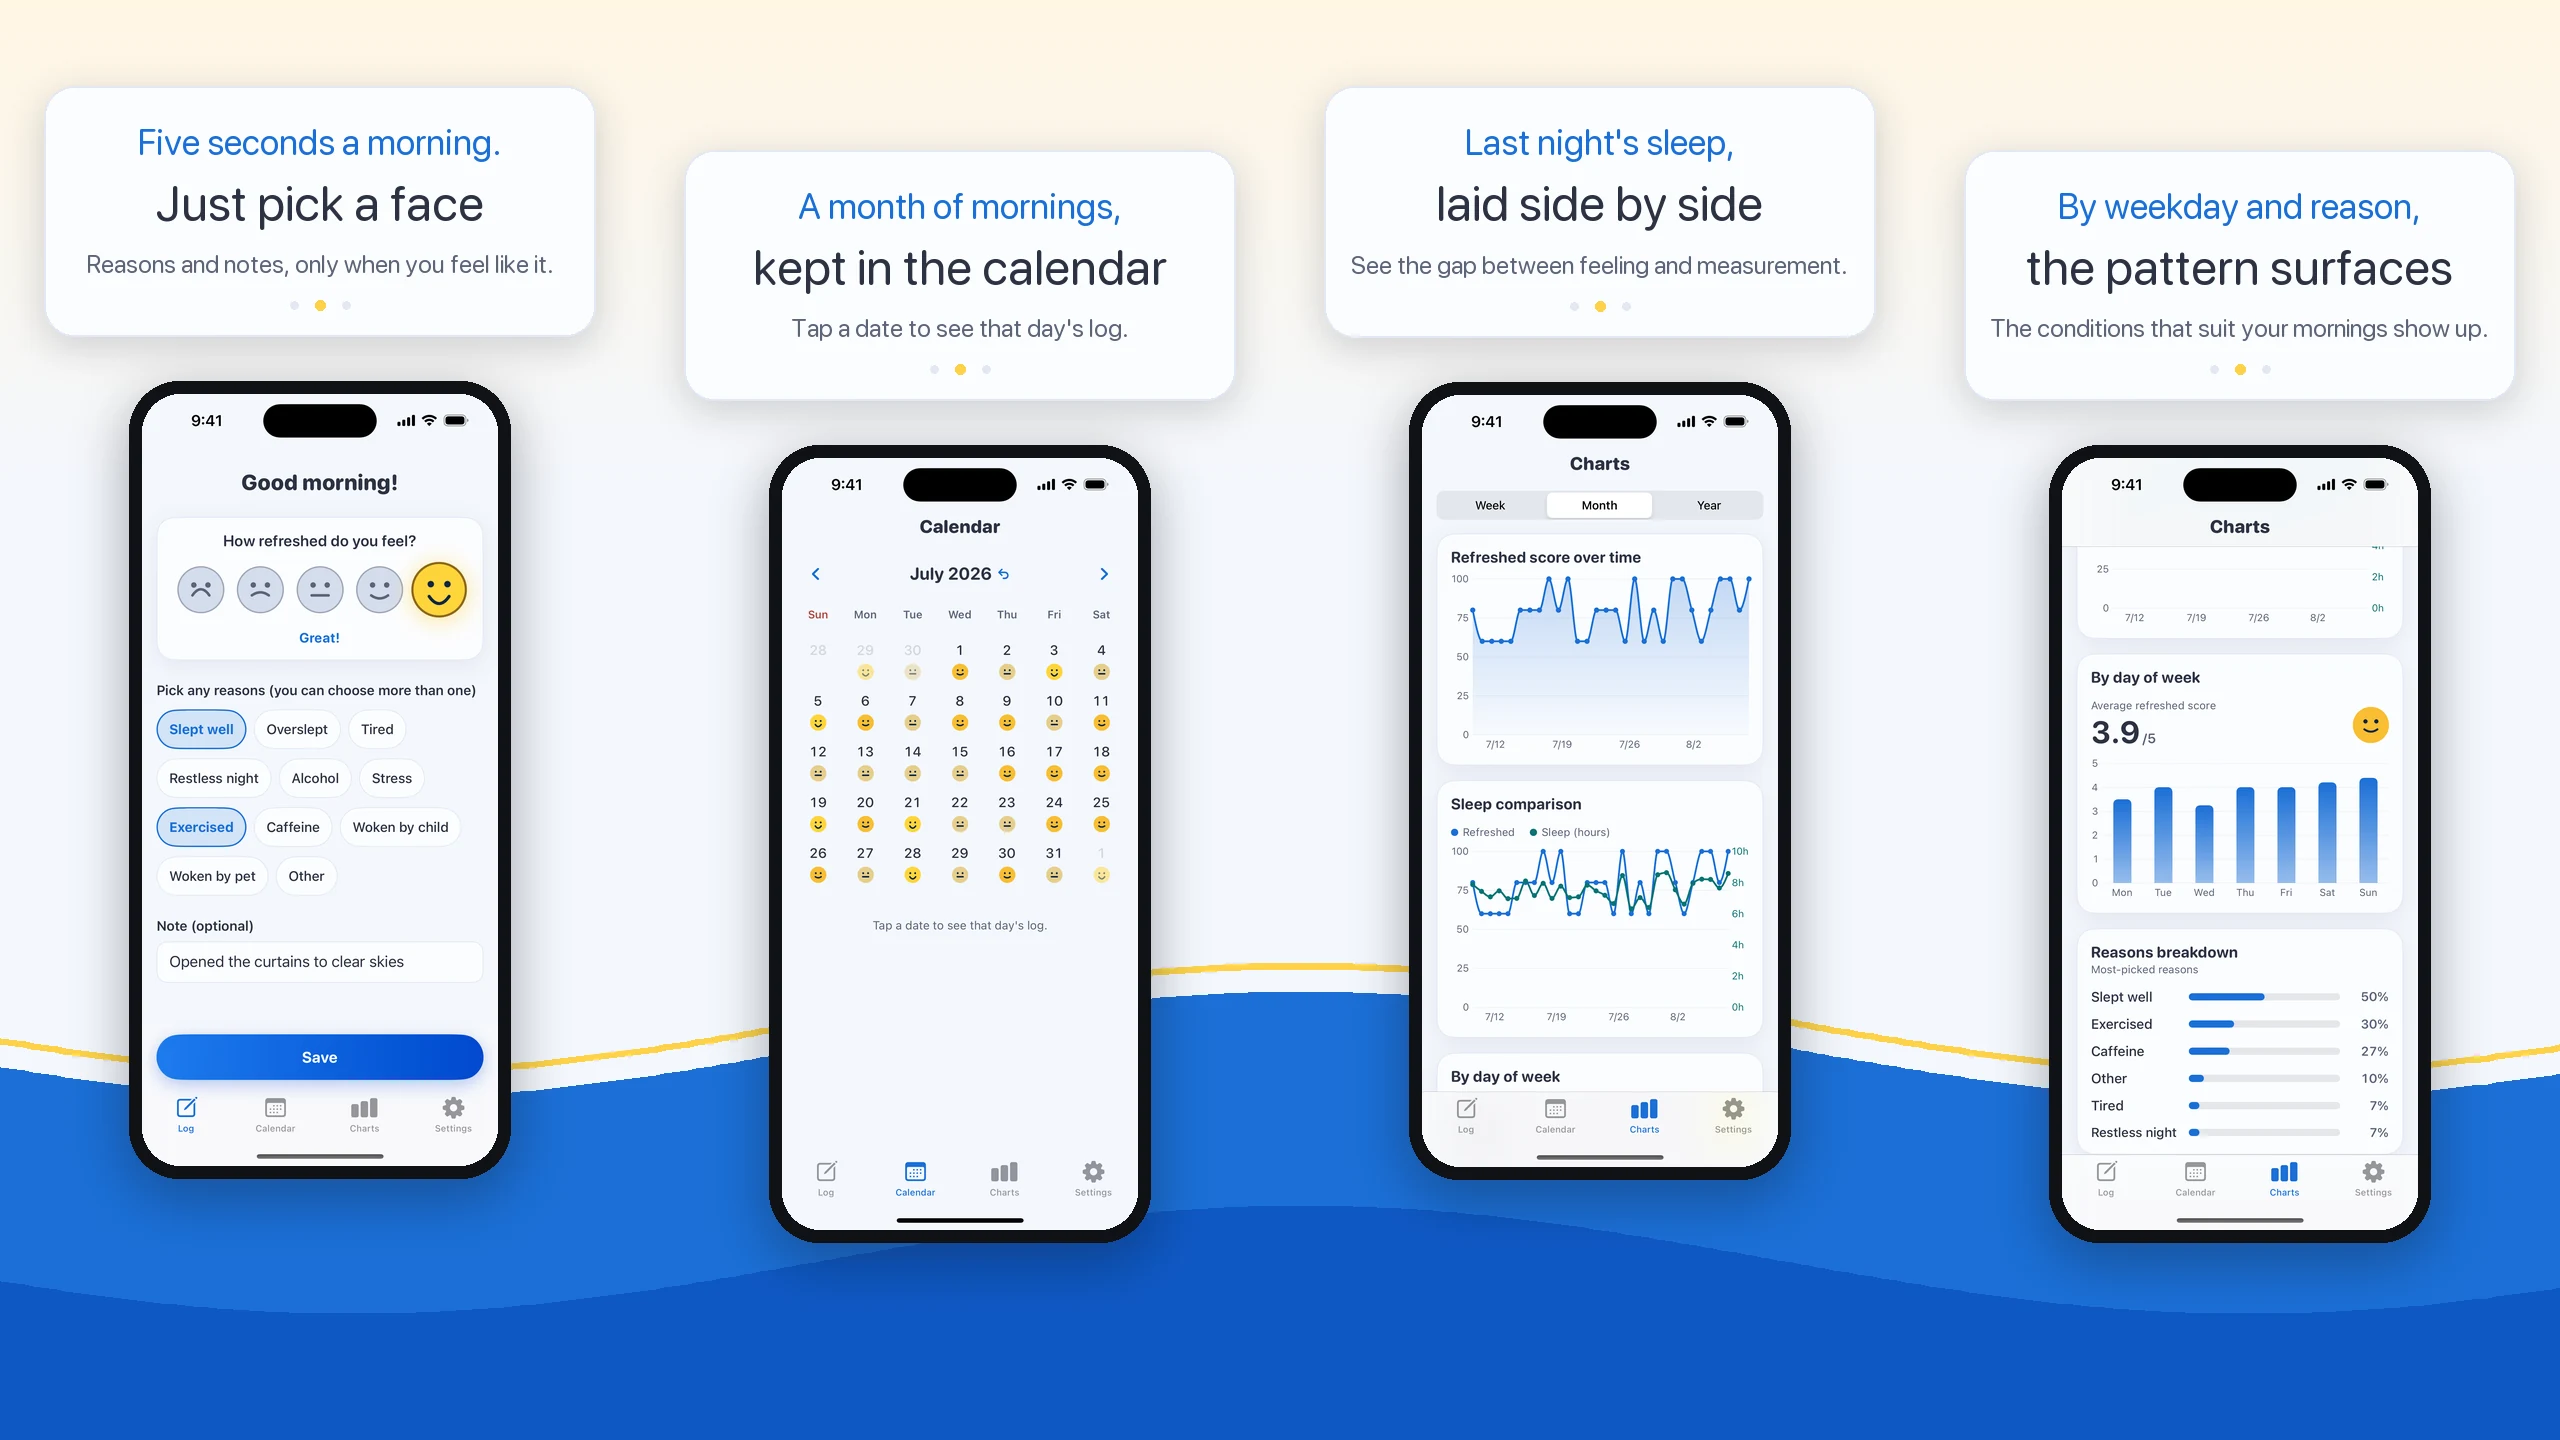
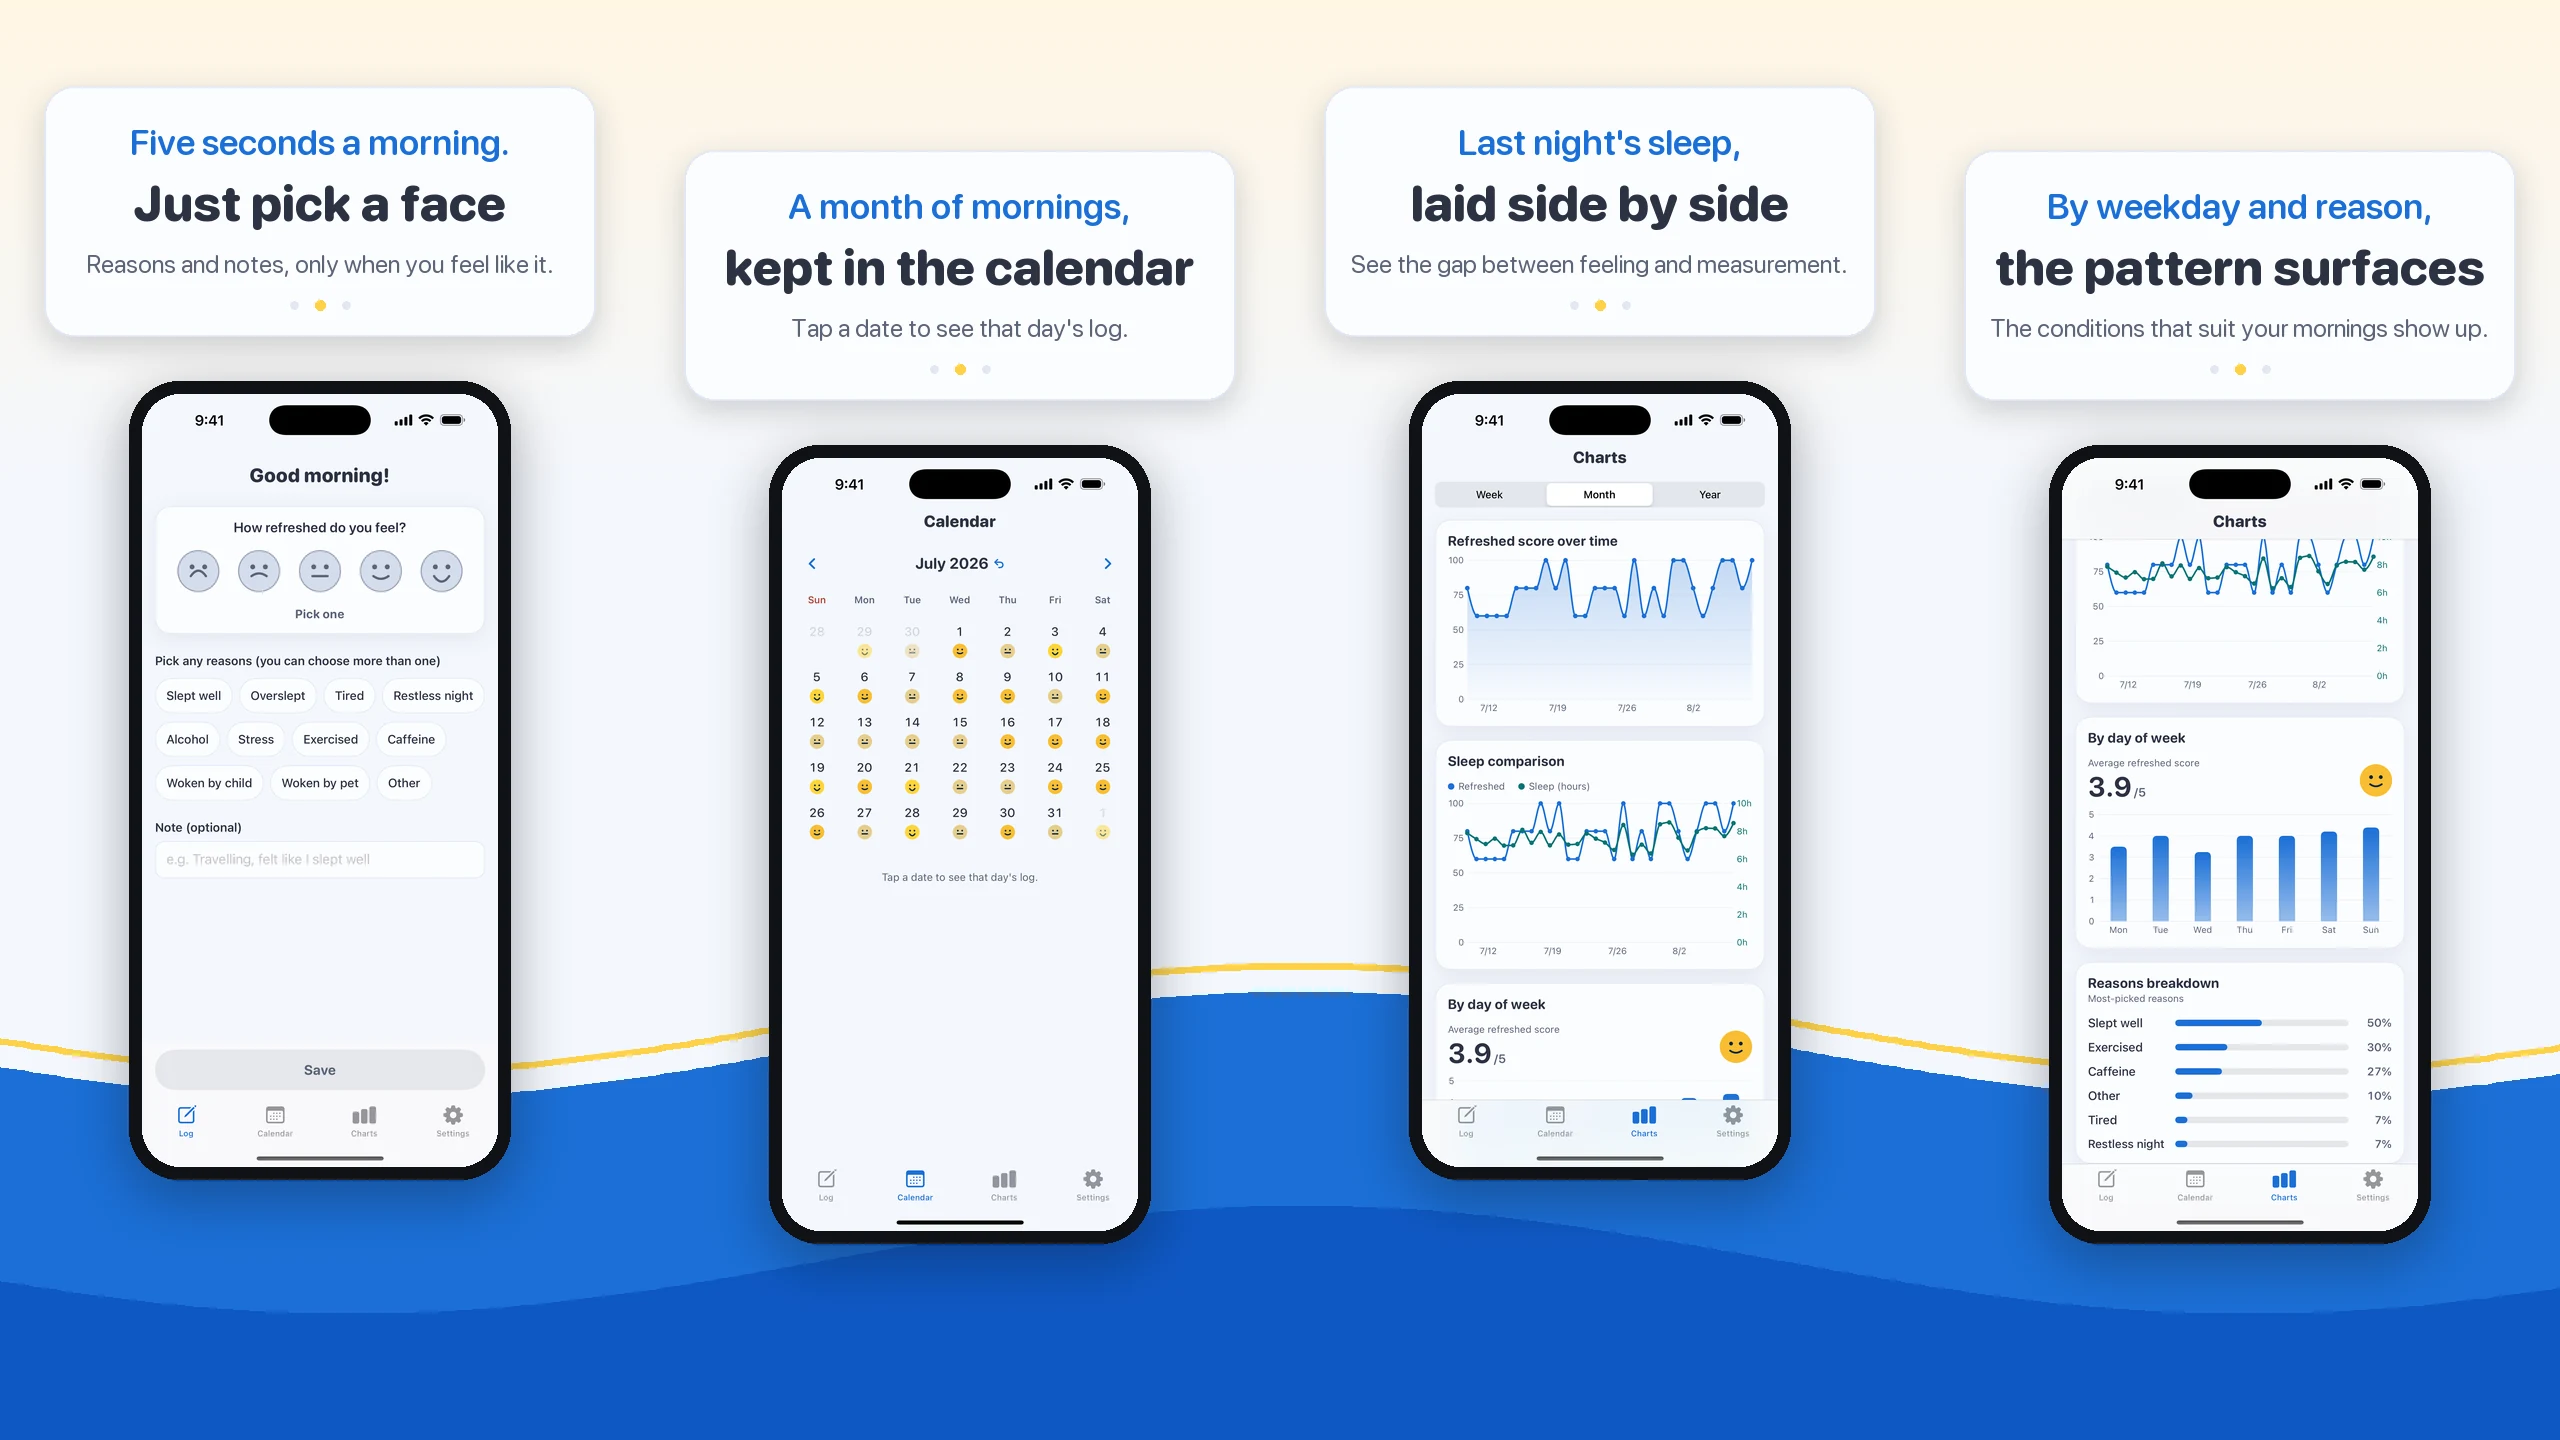
feat(asalog): 紹介画像を撮り直したスクショで作り直し、@2x を足す
拡大表示（data-zoom）が 2560×1440 の等倍画像を引き延ばしていた。姉妹アプリ6本は
5120×2880 の @2x を指しているので、朝ログもそろえる。

- app-image.webp / app-image-en.webp を差し替え。中身が古かった。
  前の画像は 2026-08-09 05:40 のもので、同日 12:37〜12:43 に撮り直した
  スクショ（配色セクション・カレンダーの日サマリー・新しいペイウォールが
  入ったあとの画面）より前のものだった。
- app-image@2x.webp / app-image-en@2x.webp を追加（5120×2880）。
- data-zoom を @2x に向けた。古くなったコメント（「5120 版を用意したら
  差し替えるだけ」）は役目を終えたので1行に縮めた。

英語版は見出しの太さも直っている。生成スクリプト側で可変フォントの
名前付きインスタンスを指定するまで、英語だけ3行が同じ太さだった。

生成は AsaLog リポジトリの shots/make_lp_image.py（kohei321/asalog#15）。

Claude-Session: https://claude.ai/code/session_019ct3yZqDSCAsPweYGXZ2r3

diff --git a/asalog/index.html b/asalog/index.html
@@ -402,10 +402,8 @@
     </nav>
   </div>
 </footer>
-<!-- data-zoom は拡大表示だけが読む画像。他アプリは 5120x2880 の @2x を指しているが、
-     朝ログは 2560x1440 の書き出ししか無いのでインライン用と同じものを共用する。
-     5120 版を用意したら ./app-image@2x.webp に差し替えるだけでよい。 -->
-<dialog class="lightbox" data-zoom="./app-image.webp" aria-label="画面の拡大表示">
+<!-- data-zoom は拡大表示だけが読む画像。姉妹アプリと同じく 5120x2880 の @2x を指す。 -->
+<dialog class="lightbox" data-zoom="./app-image@2x.webp" aria-label="画面の拡大表示">
   <div class="lightbox-track">
     <div class="lightbox-slide"><div class="lightbox-pane" style="--i:0"><img alt="" decoding="async"></div></div>
     <div class="lightbox-slide"><div class="lightbox-pane" style="--i:1"><img alt="" decoding="async"></div></div>

diff --git a/asalog/en/index.html b/asalog/en/index.html
@@ -398,10 +398,8 @@
     </nav>
   </div>
 </footer>
-<!-- data-zoom は拡大表示だけが読む画像。他アプリは 5120x2880 の @2x を指しているが、
-     朝ログは 2560x1440 の書き出ししか無いのでインライン用と同じものを共用する。
-     5120 版を用意したら ../app-image-en@2x.webp に差し替えるだけでよい。 -->
-<dialog class="lightbox" data-zoom="../app-image-en.webp" aria-label="Enlarged view">
+<!-- data-zoom は拡大表示だけが読む画像。姉妹アプリと同じく 5120x2880 の @2x を指す。 -->
+<dialog class="lightbox" data-zoom="../app-image-en@2x.webp" aria-label="Enlarged view">
   <div class="lightbox-track">
     <div class="lightbox-slide"><div class="lightbox-pane" style="--i:0"><img alt="" decoding="async"></div></div>
     <div class="lightbox-slide"><div class="lightbox-pane" style="--i:1"><img alt="" decoding="async"></div></div>
